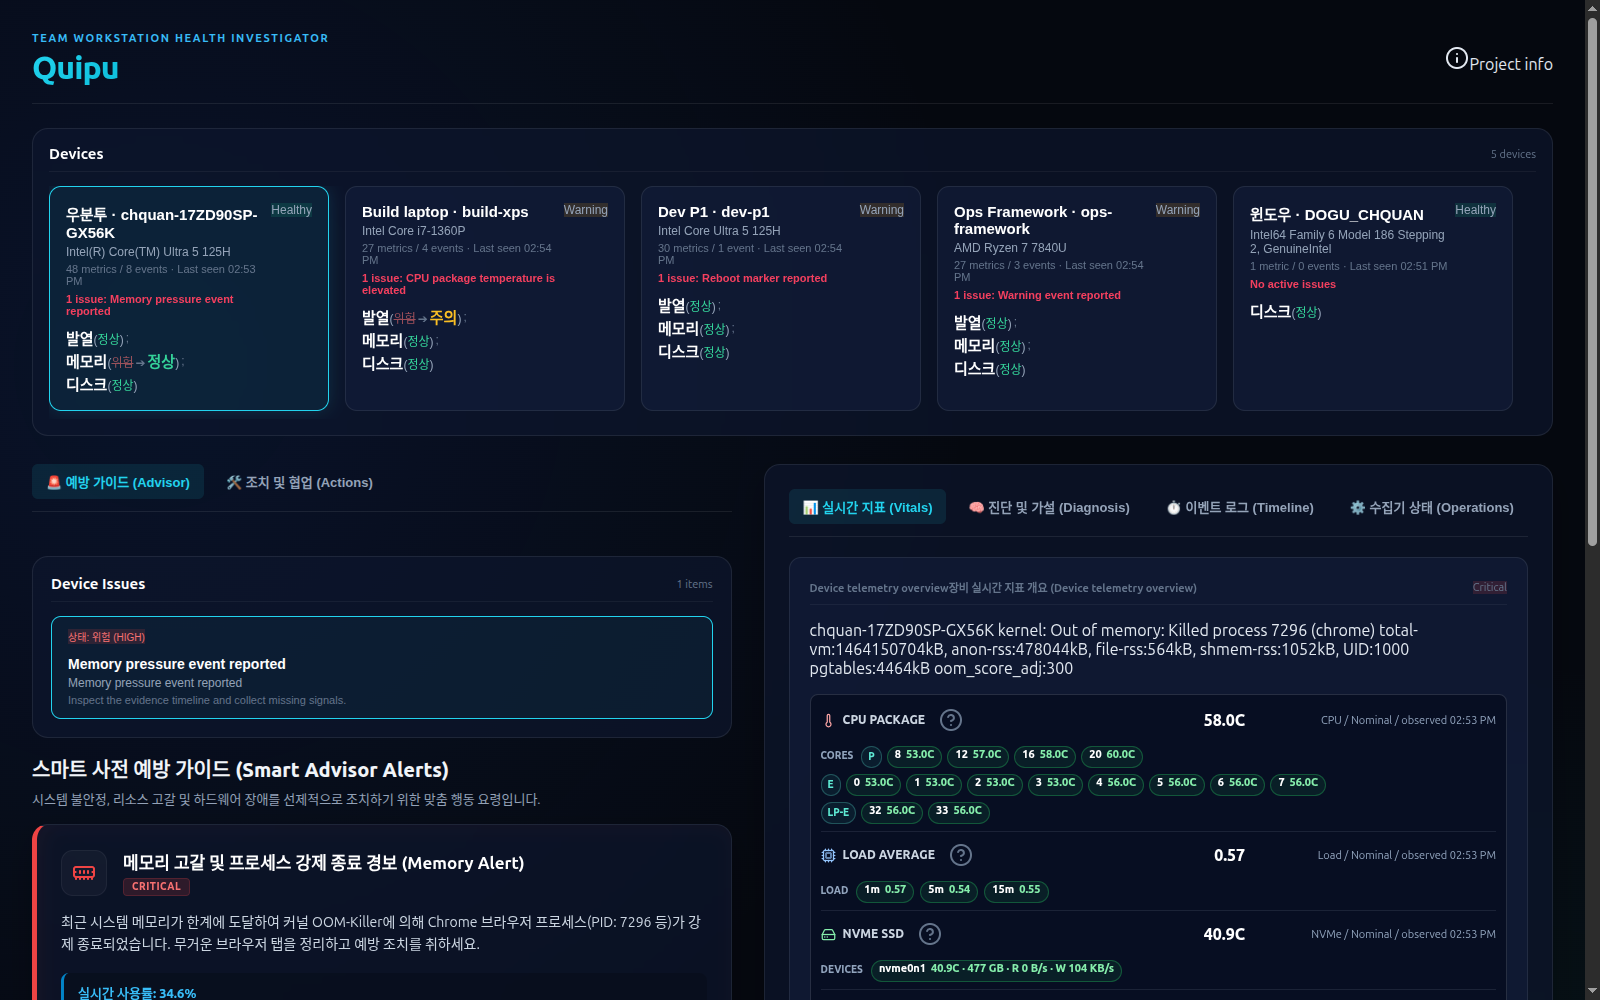
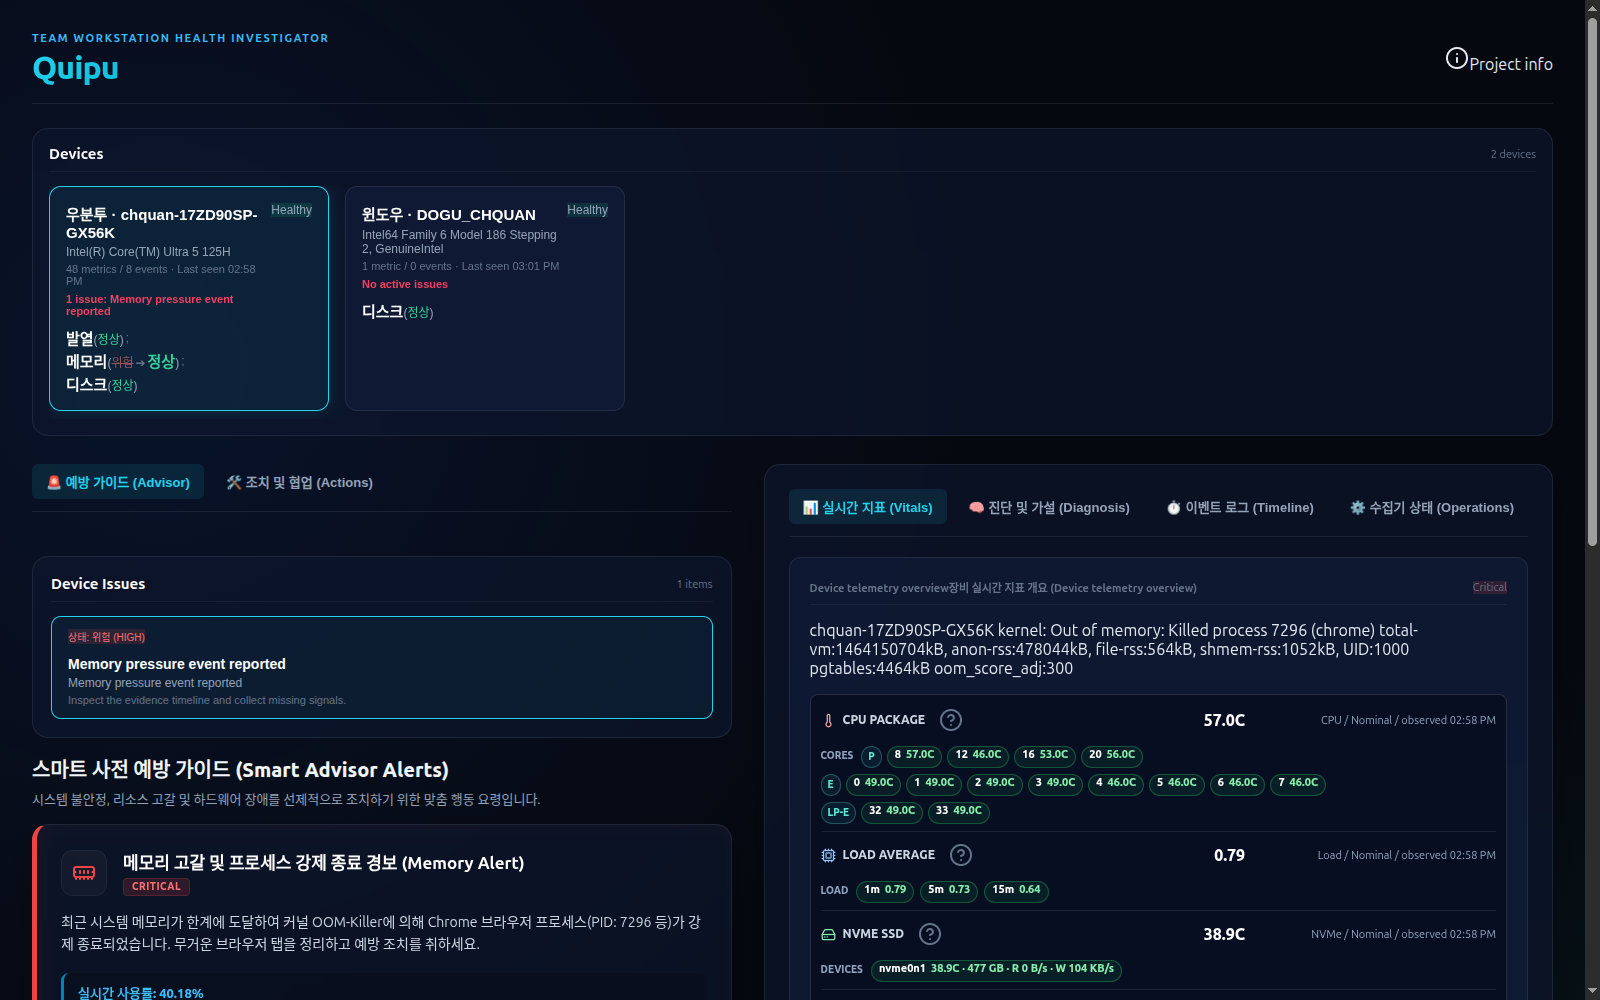
chore: adopt Apache-2.0 license
Add the LICENSE and NOTICE files, declare the SPDX license expression
in both pyproject.toml files (PEP 639, setuptools>=77) and package.json,
switch the README license badges to the dynamic GitHub license badge,
and refresh the dashboard screenshot to the live two-device fleet.

diff --git a/README.en.md b/README.en.md
@@ -4,7 +4,7 @@
   <img alt="CI" src="https://github.com/chquandogong/Quipu/actions/workflows/ci.yml/badge.svg">
   <img alt="Release" src="https://img.shields.io/github/v/release/chquandogong/Quipu?color=2f6f7e&label=release">
   <img alt="Status" src="https://img.shields.io/badge/status-local--first%20workstation%20health-5b6b73">
-  <img alt="License" src="https://img.shields.io/badge/license-not%20selected-lightgrey">
+  <img alt="License" src="https://img.shields.io/github/license/chquandogong/Quipu?color=blue">
 </p>
 
 <p align="center">

diff --git a/README.md b/README.md
@@ -4,7 +4,7 @@
   <img alt="CI" src="https://github.com/chquandogong/Quipu/actions/workflows/ci.yml/badge.svg">
   <img alt="Release" src="https://img.shields.io/github/v/release/chquandogong/Quipu?color=2f6f7e&label=release">
   <img alt="Status" src="https://img.shields.io/badge/status-local--first%20workstation%20health-5b6b73">
-  <img alt="License" src="https://img.shields.io/badge/license-not%20selected-lightgrey">
+  <img alt="License" src="https://img.shields.io/github/license/chquandogong/Quipu?color=blue">
 </p>
 
 <p align="center">

diff --git a/README.zh-CN.md b/README.zh-CN.md
@@ -4,7 +4,7 @@
   <img alt="CI" src="https://github.com/chquandogong/Quipu/actions/workflows/ci.yml/badge.svg">
   <img alt="Release" src="https://img.shields.io/github/v/release/chquandogong/Quipu?color=2f6f7e&label=release">
   <img alt="Status" src="https://img.shields.io/badge/status-local--first%20workstation%20health-5b6b73">
-  <img alt="License" src="https://img.shields.io/badge/license-not%20selected-lightgrey">
+  <img alt="License" src="https://img.shields.io/github/license/chquandogong/Quipu?color=blue">
 </p>
 
 <p align="center">